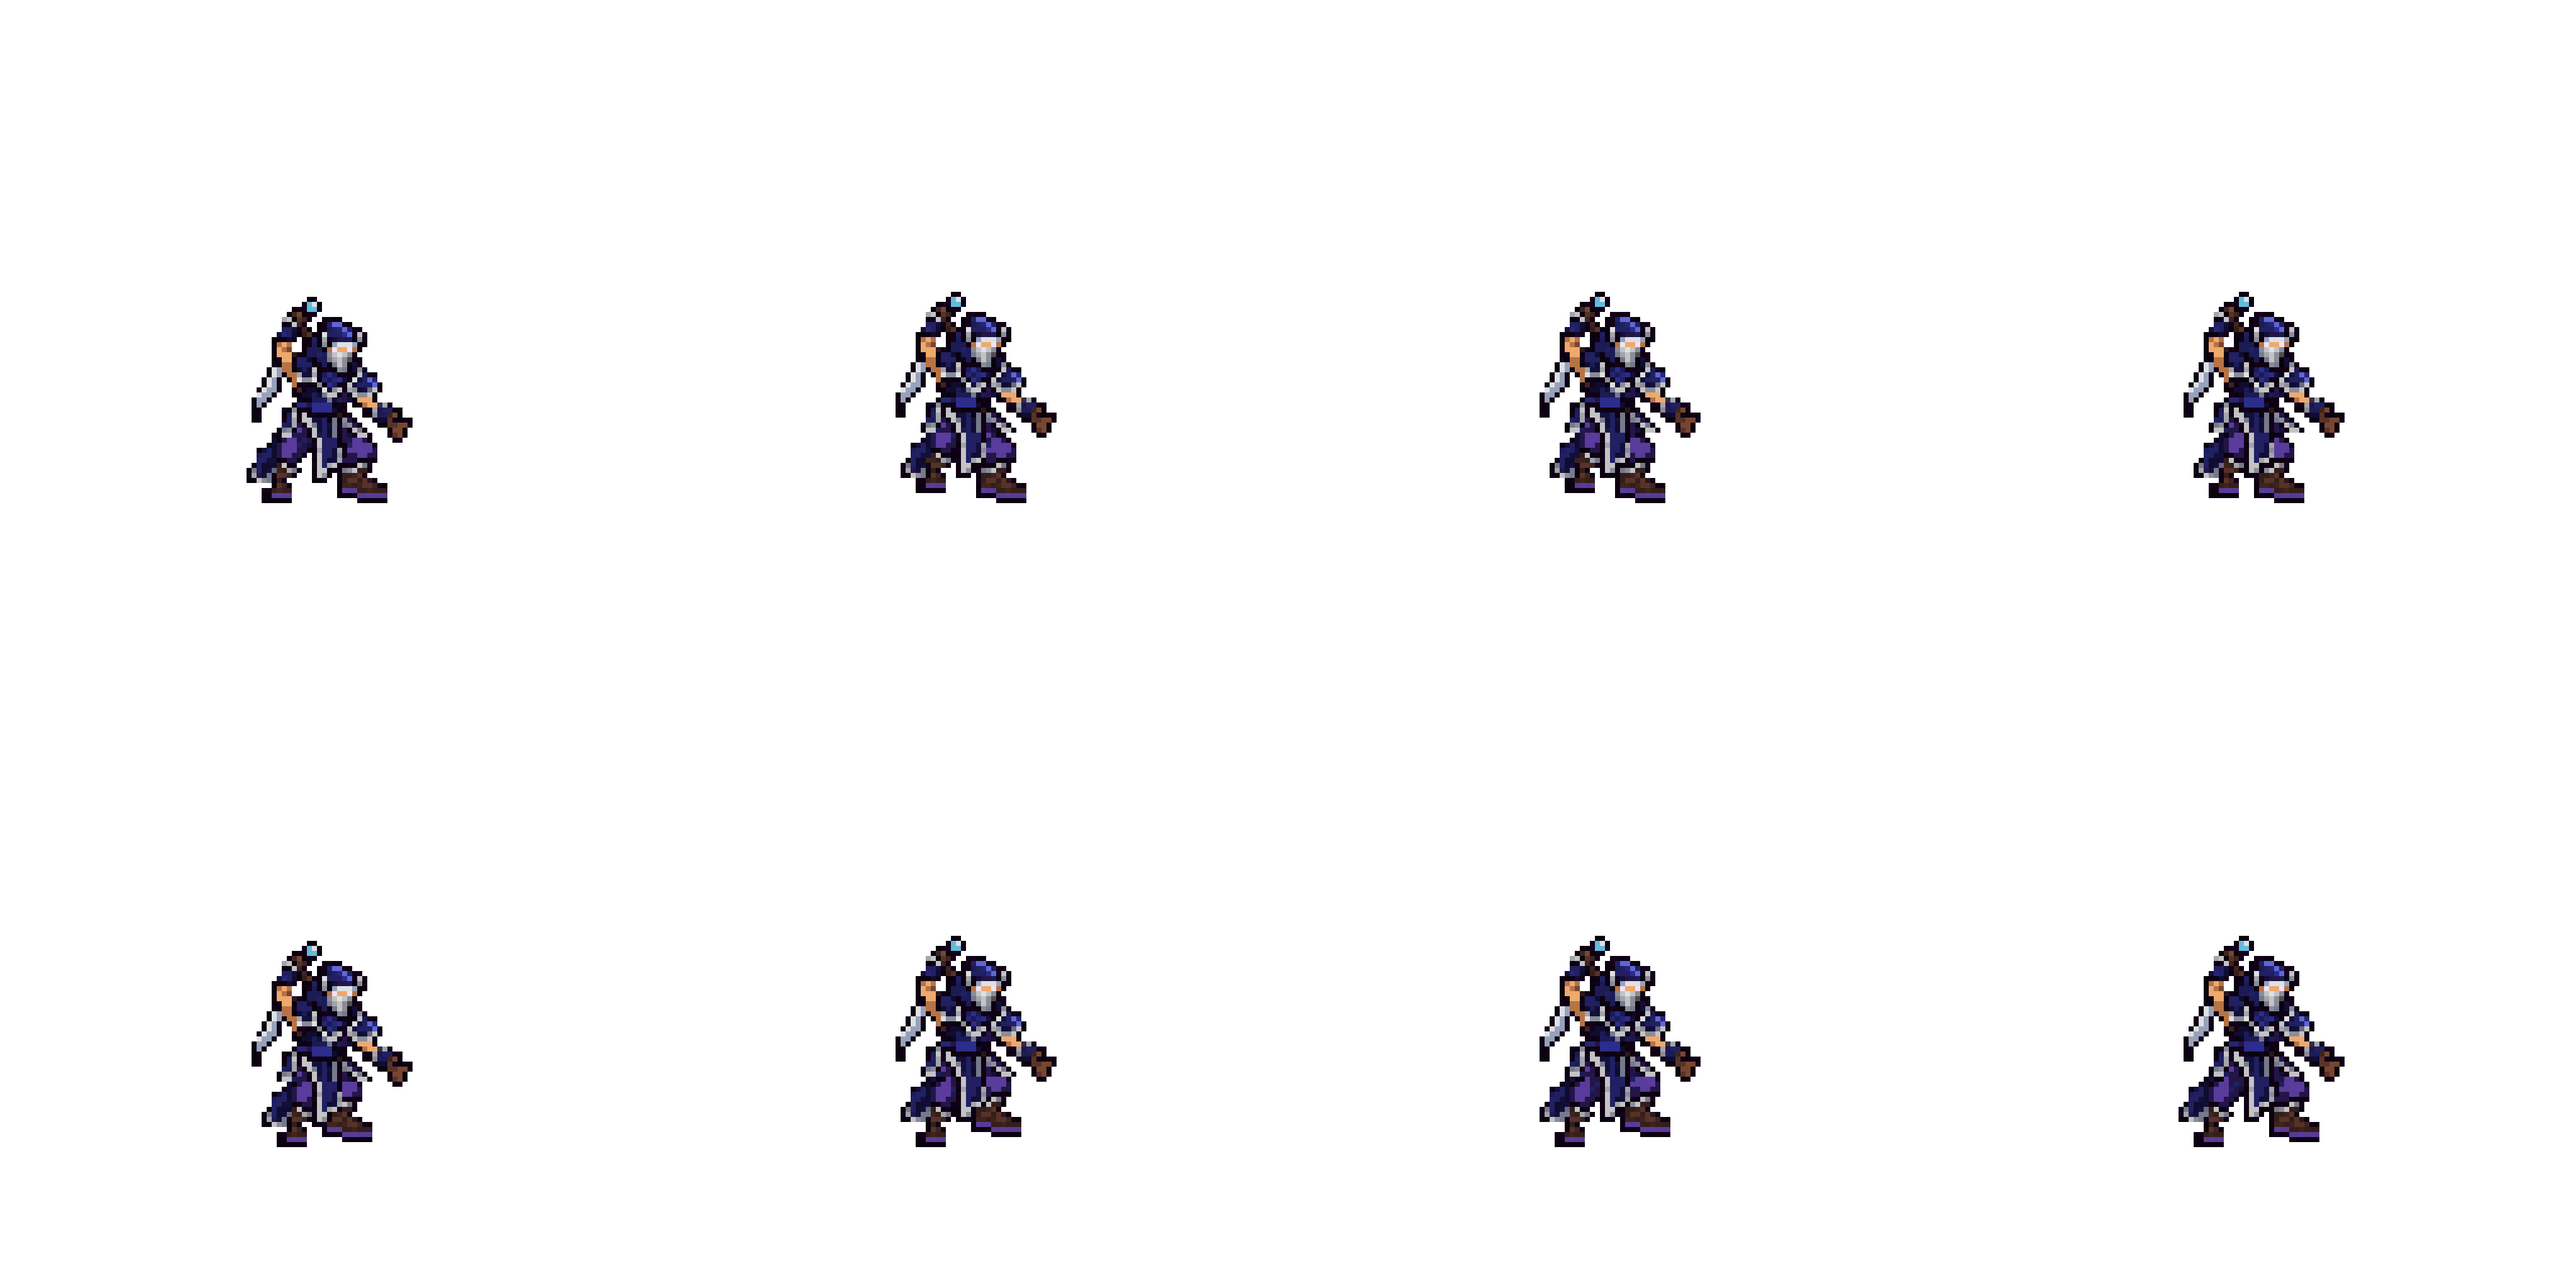
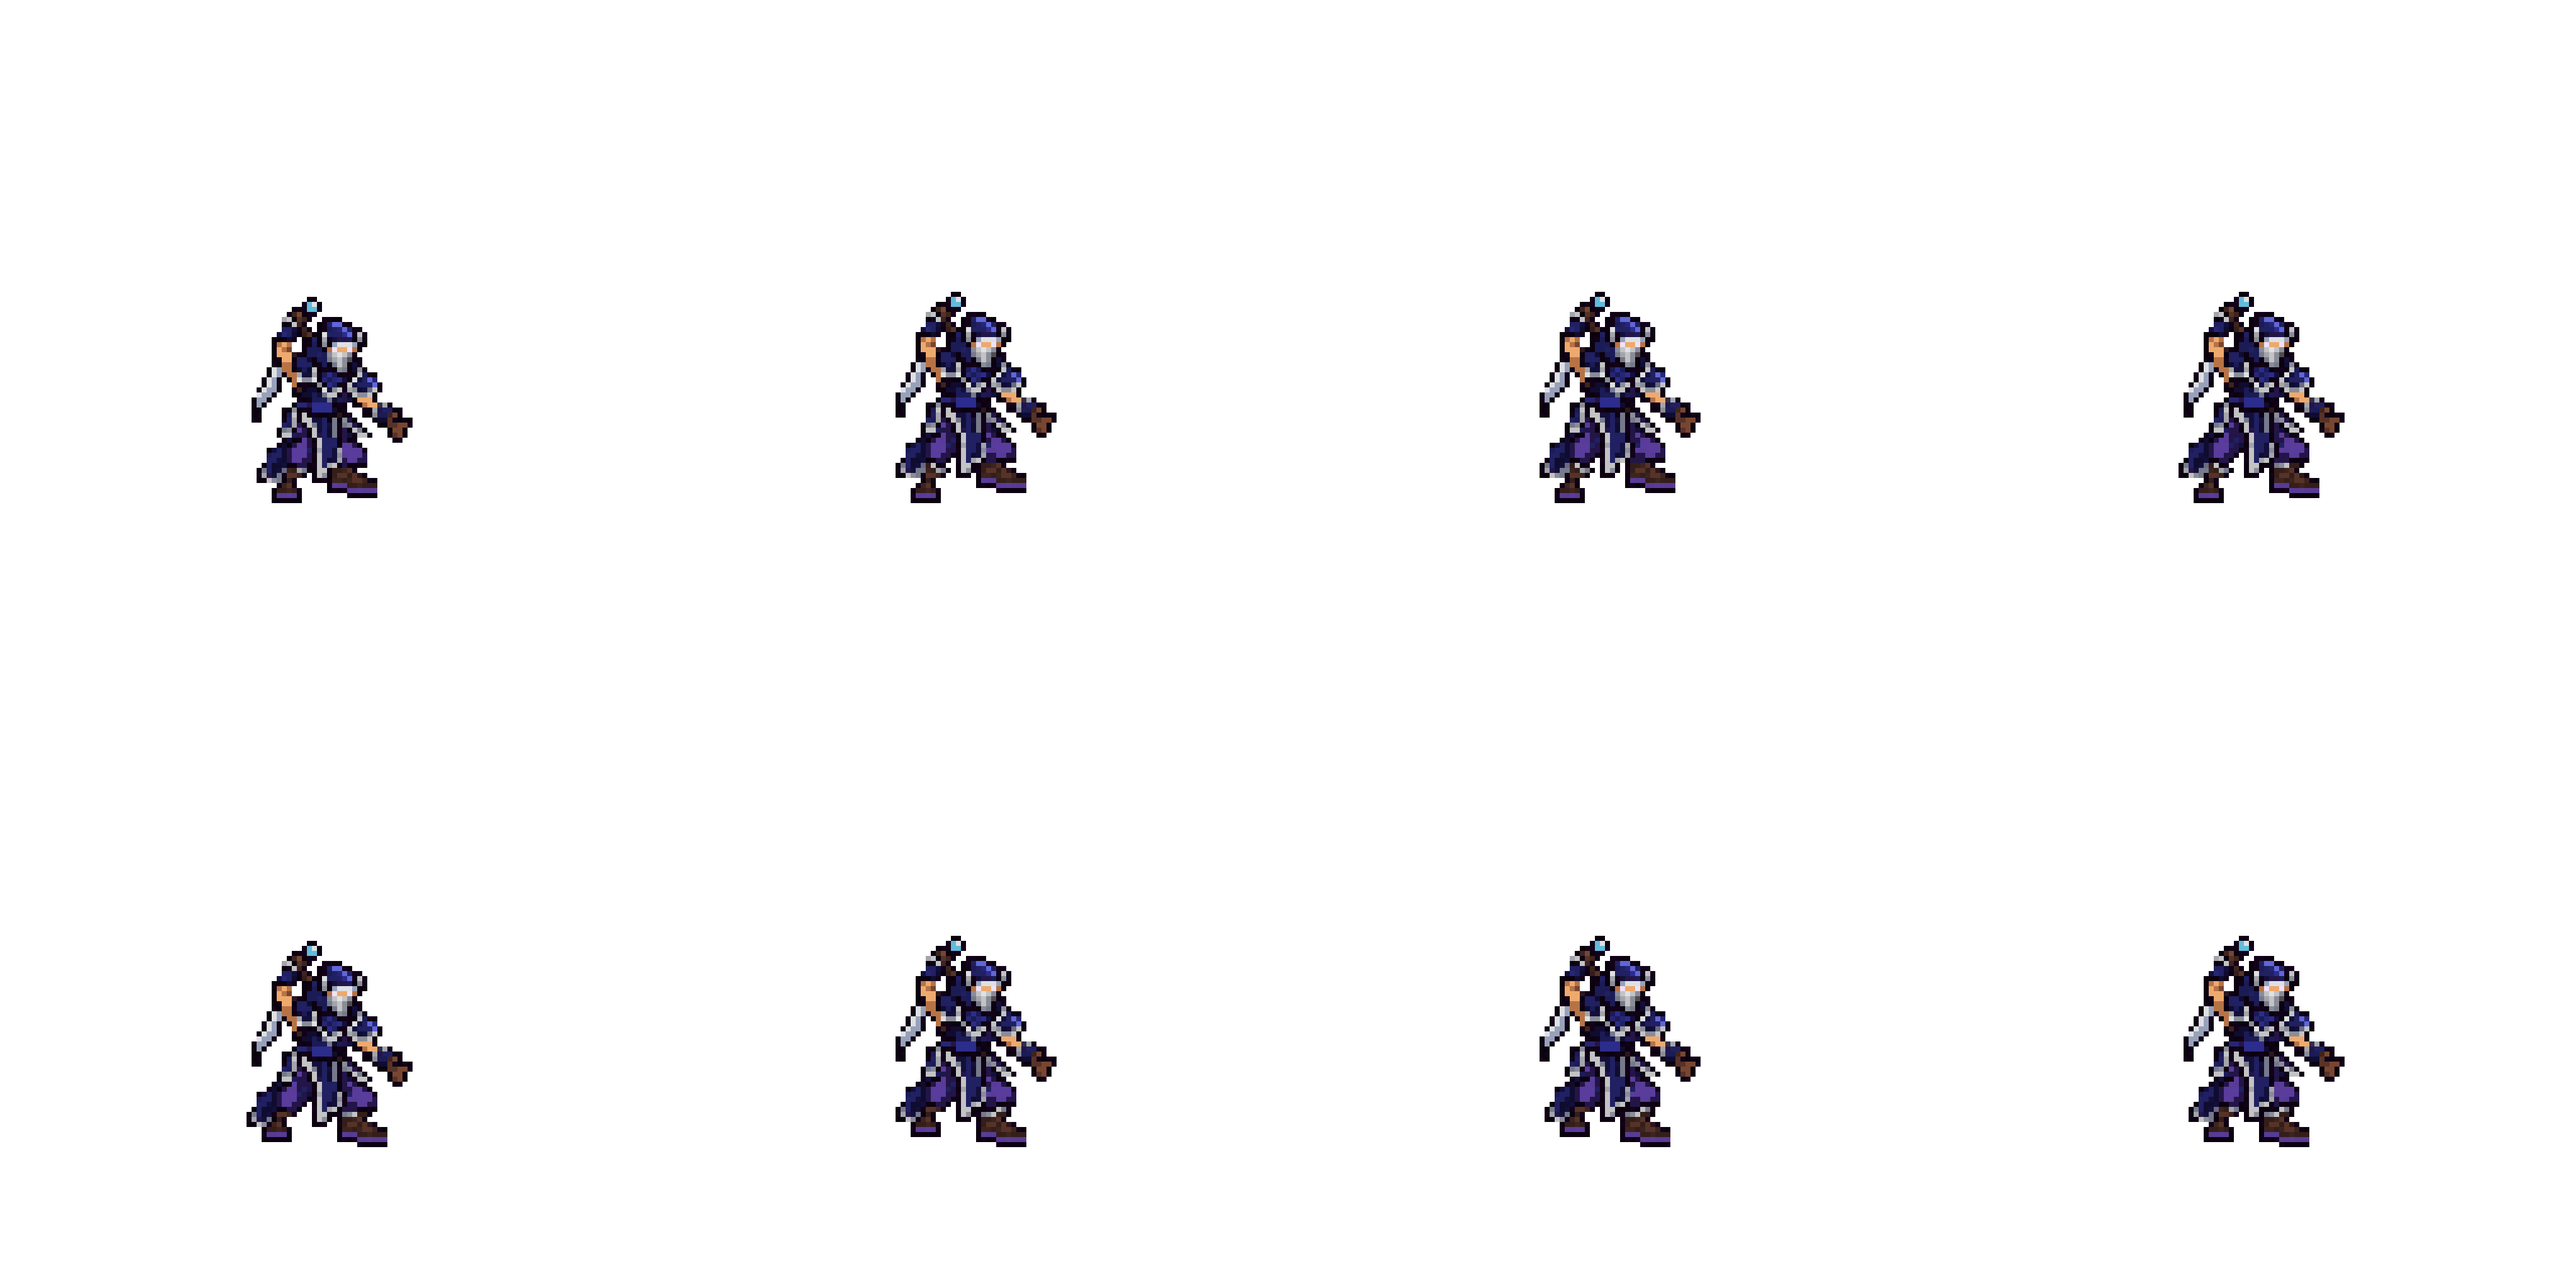
Shen (#85): run steps lift only the lower leg, behind its thigh; the near foot unmirrored
The whole lifted leg hid the hakama bulb's top under the sash and ran the mirrored near
boot through the tail hem (「你看不到变形吗」). Each leg is now thigh + lower leg: the leg moves
sideways whole (2 columns inwards at most), a step lifts only the lower leg behind its own
thigh, the tail moves with the near leg, the near boot in front of it. Every frame: one
piece, the design's hole only; what hides is a thigh's inner edge behind the apron and a
lifted lower leg's cuff behind its thigh.

diff --git a/tools/art/fix_shen_strips.py b/tools/art/fix_shen_strips.py
@@ -49,19 +49,20 @@ Z = 8
 SOLES, MID = 99, 64
 PIVOT = (MID, SOLES - 11)
 CANVAS_SQUARE = 1254 / 128
-# The run: a trot of the design's own legs, nothing redrawn (the user: 「腿别变形」「脚也别变形」「颜色都不一致」 after
-# Codex's two skin swaps and legs drawn from League's joints were all rejected). Each leg is the design's leg (rows
-# 85-99, the boot included) moved whole (NEAR_STEP / FAR_STEP); the two legs half a cycle apart; the body (rows <= 84) sinks 1 row as a foot lands; the
-# tail hem rides with the near leg (it hangs behind it), the apron stays with the body in front.
-# A scissor step (the user: 「好歹有点换脚的感觉啊 平行走路？？？？」 on legs lifting in place): the near leg swings
-# forward (+x, lifted) while the planted far leg slides back (-x), then the other way. Each travels 3 columns inwards
-# and back, so the feet close from 18 apart to 12 and the bulbs touch but never overlap (legs that passed each other
-# overlapped into one thick leg: 「别变形」); moving towards the apron never opens a slit beside it (a leg moved away from
-# it did: 「这对吗」). The near foot is mirrored to point forward.
-NEAR_STEP = [(0, 0), (2, 2), (3, 2), (3, 1), (3, 0), (2, 0), (1, 0), (0, 0)]        # (columns, rows up)
-FAR_STEP = [(0, 0), (-1, 0), (-2, 0), (-3, 0), (-3, 1), (-2, 2), (-1, 2), (0, 1)]
+# The run: a scissor step of the design's own legs, nothing redrawn (the user: 「腿别变形」「脚也别变形」「颜色都不一致」
+# after Codex's two skin swaps and legs drawn from League's joints were all rejected; 「好歹有点换脚的感觉啊 平行走路？？？？」
+# on legs lifting in place). Each leg is two rigid pieces of the design: the thigh (the hakama bulb, rows 85-90) and
+# the lower leg (cuff, shin and boot, rows 91-99). A leg moves sideways whole (both pieces, NEAR_STEP / FAR_STEP
+# columns: the near one forward while the planted far one slides back, then the other way, 2 columns inwards at most,
+# the thighs tucking under the apron's edges); a step lifts only the lower leg, BEHIND its own thigh (a bent knee: the
+# thigh never rises into the sash, nothing is cut but what goes behind). The tail hem moves with the near leg it hangs
+# beside, the near boot in front of it, so the two keep the idle's arrangement; the body sinks a row as a foot lands.
+# (Lifting the whole leg hid the bulb's top under the sash and ran the mirrored near boot through the tail hem:
+# 「你看不到变形吗」.)
+NEAR_STEP = [(2, 0), (1, 0), (1, 0), (0, 0), (0, 1), (1, 2), (2, 2), (2, 1)]        # (columns, lower leg rows up)
+FAR_STEP = [(-2, 1), (-1, 2), (0, 2), (0, 1), (0, 0), (-1, 0), (-1, 0), (-2, 0)]
 TROT_BOB = [1, 0, 0, 0, 1, 0, 0, 0]
-NEAR_FOOT_TOP = 96
+KNEE_ROW = 91                     # the lower leg's first row
 LEG_TOP = 85
 EYE = (239, 226, 246)
 SPECK = 4
@@ -364,44 +365,32 @@ def masked(des, rows, cols_by_row):
 
 
 def trot_parts(des):
+    """The design's run pieces: upper body, tail hem, apron, and each leg as thigh + lower leg."""
     tail = masked(des, range(LEG_TOP, 95), lambda y: (46, 53 if y >= 91 else 52))
     apron = masked(des, range(LEG_TOP, 94), lambda y: (62, 65 if y >= 91 else 67))
     far = masked(des, range(LEG_TOP, 100), lambda y: (68, 75) if y <= 90 else (66, 77))
     near = masked(des, range(LEG_TOP, 100),
                   lambda y: (53, 61) if y <= 90 else ((54, 59) if y <= 92 else ((53, 58) if y <= 94 else (51, 57))))
-    # the idle's near foot points backwards (a turned-out stance): mirrored about its own middle so its toe leads
-    # when the leg swings forward (a mirror, nothing redrawn); the shaft above it stays
-    foot = near[NEAR_FOOT_TOP:100, 51:58]
-    near[NEAR_FOOT_TOP:100, 51:58] = foot[:, ::-1]
     upper = des.copy()
     upper[LEG_TOP:, :78] = 0
     upper[LEG_TOP + 2:] = 0
-    return upper, tail, apron, far, near
+    parts = {"upper": upper, "tail": tail, "apron": apron}
+    for name, leg in (("near", near), ("far", far)):
+        thigh, low = leg.copy(), leg.copy()
+        thigh[KNEE_ROW:] = 0
+        low[:KNEE_ROW] = 0
+        parts[name + "_thigh"], parts[name + "_low"] = thigh, low
+    return parts
 
 
-def trot_frame(k, des):
-    upper, tail, apron, far, near = trot_parts(des)
+def trot_layers(parts, k):
+    """Frame k's pieces with their moves, back to front."""
     bob = TROT_BOB[k - 1]
     ndx, nup = NEAR_STEP[k - 1]
     fdx, fup = FAR_STEP[k - 1]
-    can = np.zeros_like(des)
-    for part, dx, dy in ((tail, ndx, bob), (far, fdx, -fup), (near, ndx, -nup), (apron, 0, bob), (upper, 0, bob)):
-        p = shift(part, dx, dy)
-        m = p[..., 3] > 0
-        can[m] = p[m]
-    can[SOLES + 1:] = 0
-    # a leg moved away from the apron opens a slit between them (the idle's parts touch): closed in the apron's shade
-    op = can[..., 3] > 0
-    lab, n = ndimage.label(ndimage.binary_fill_holes(op) & ~op)
-    for i in range(1, n + 1):
-        h = lab == i
-        if h[:LEG_TOP].any() or h.sum() > 24:
-            continue
-        ring = ndimage.binary_dilation(h, np.ones((3, 3))) & op
-        cols, counts = np.unique(can[ring][:, :3], axis=0, return_counts=True)
-        can[h, :3] = cols[counts.argmax()]
-        can[h, 3] = 255
-    return can
+    return [(parts["far_low"], fdx, -fup), (parts["far_thigh"], fdx, bob), (parts["tail"], ndx, bob),
+            (parts["near_low"], ndx, -nup), (parts["near_thigh"], ndx, bob), (parts["apron"], 0, bob),
+            (parts["upper"], 0, bob)]
 
 
 SHRINK = 0.9                          # the user: 「慎的模型太大 缩小一点」 (46 rows -> 42, like Talon and Olaf)
@@ -541,7 +530,7 @@ def build(only=None):
     des90 = shrunk(des, plan)
     up, low = breath_parts(des)
     up90, low90 = shrunk(up, plan), shrunk(low, plan)
-    upper, tail, apron, far, near = (shrunk(p, plan) for p in trot_parts(des))
+    run_parts = {n: shrunk(p, plan) for n, p in trot_parts(des).items()}
     for tag, rows in TAGS.items():
         if only and tag not in only:
             continue
@@ -552,10 +541,7 @@ def build(only=None):
             elif isinstance(src, tuple) and src[0] == "breath":
                 a = compose([(low90, 0, 0), (up90, 0, src[1])])
             elif isinstance(src, tuple) and src[0] == "trot":
-                kk = src[1]
-                bob, (ndx, nup), (fdx, fup) = TROT_BOB[kk - 1], NEAR_STEP[kk - 1], FAR_STEP[kk - 1]
-                a = pinholes(compose([(tail, ndx, bob), (far, fdx, -fup), (near, ndx, -nup), (apron, 0, bob),
-                                      (upper, 0, bob)]))
+                a = compose(trot_layers(run_parts, src[1]))
             elif isinstance(src, tuple) and src[0] == "sink":
                 a = ("sink", src[1], src[2], src[3])
             else:
